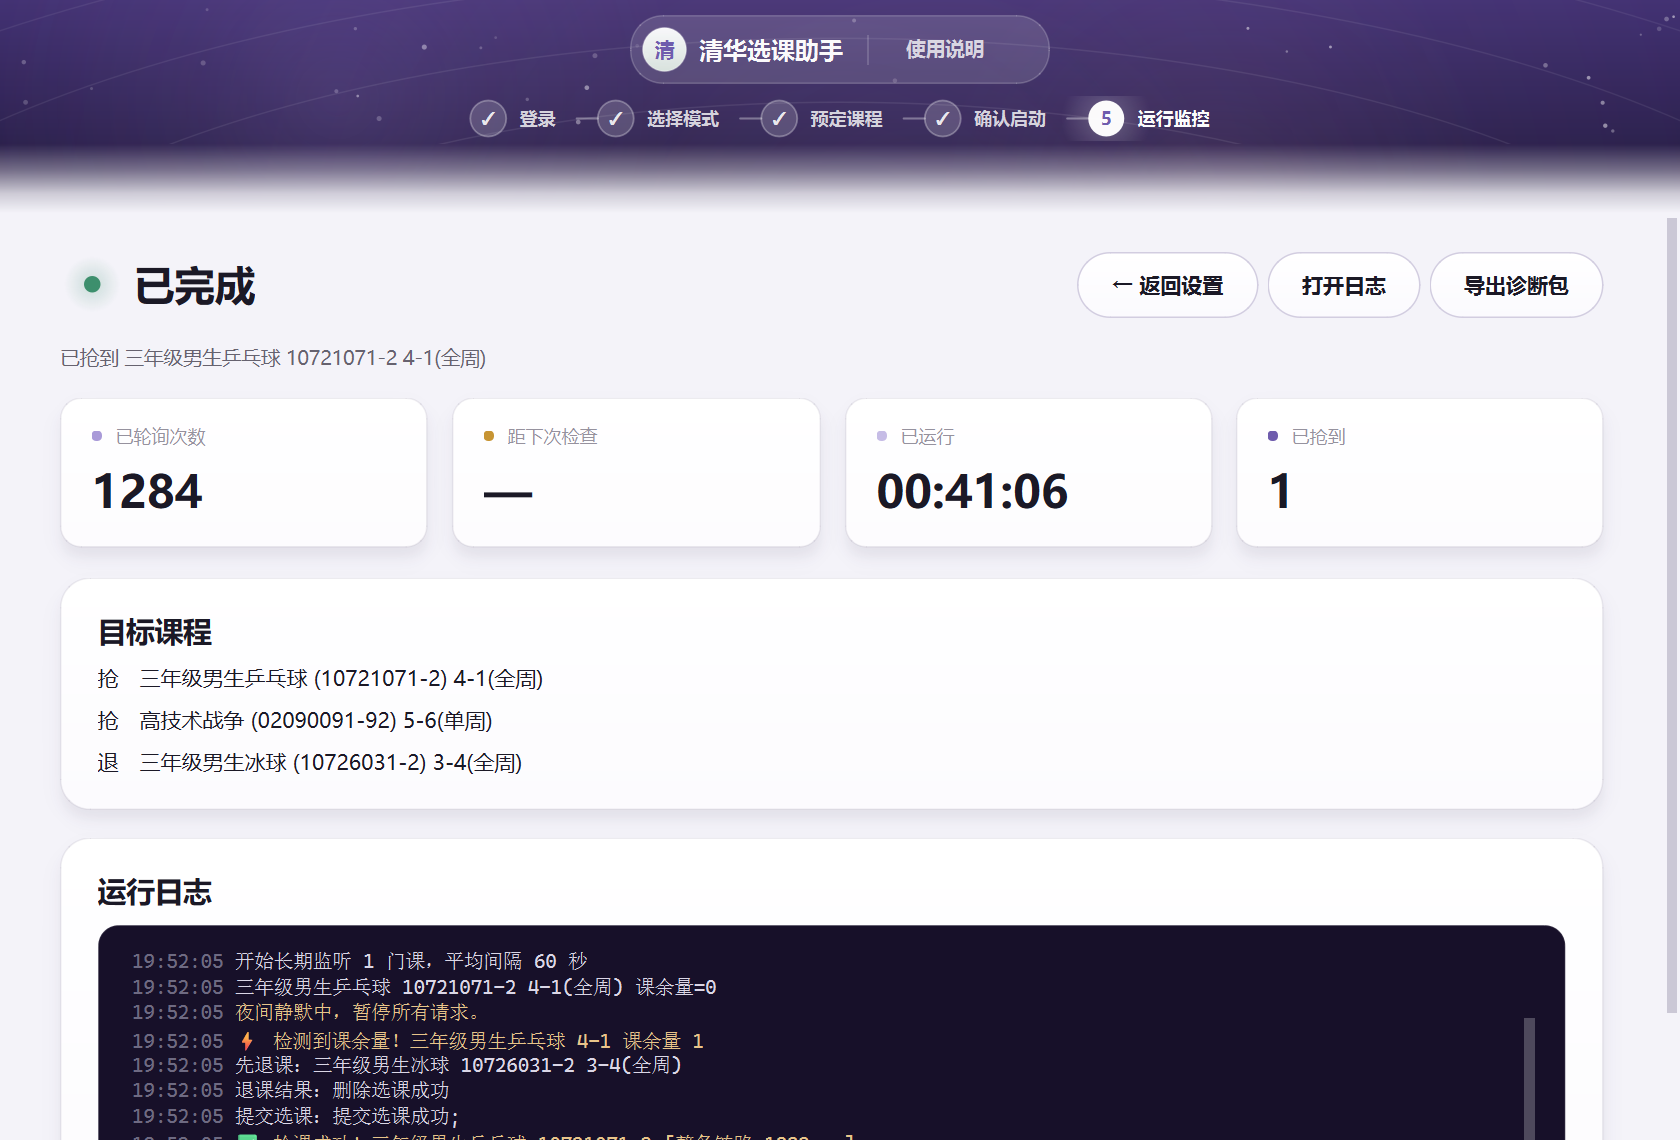
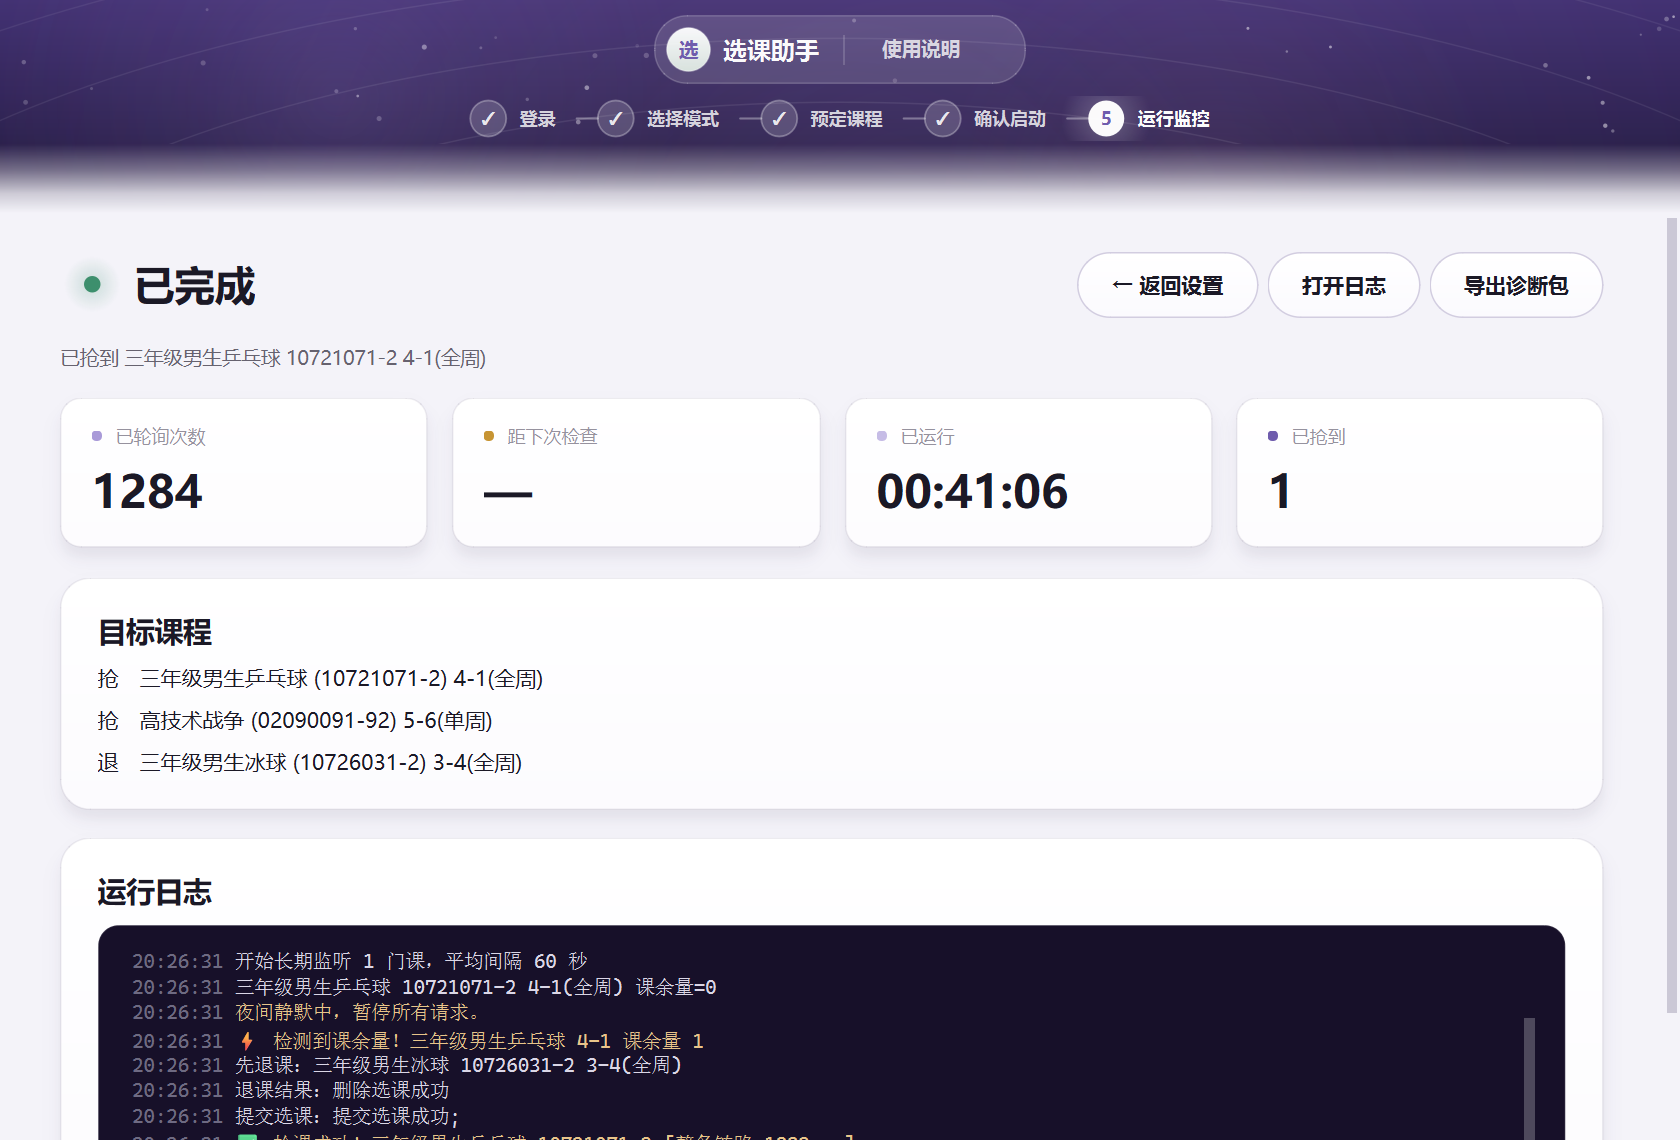
项目更名为 XkHelper
- 中文「学校」、英文 THU / XUANKE 全部清除，产品名改为「选课助手」
- 程序 XkHelper.exe -> XkHelper.exe，安装包同步改名
- 目录 xk_app -> xk_app，spec xk.spec -> xk.spec
- 数据目录 XkHelper -> XkHelper，附带一次性迁移（加密凭据与浏览器
  profile 都在里面，搬不动就继续用旧的，绝不丢数据）
- 安装包升级时清理旧 exe，不留孤儿文件
- 界面与演示稿的圆形标由「清」改为「选」，与应用图标一致
- 版本号 0.3.10 -> 0.4.0

Changed region(s): [[0.3714, 0.0, 0.65, 0.0921], [0.0619, 0.8289, 0.1548, 0.9825]]

diff --git a/xk_app/docs/使用说明.html b/xk_app/docs/使用说明.html
@@ -3,7 +3,7 @@
 <head>
 <meta charset="UTF-8">
 <meta name="viewport" content="width=device-width, initial-scale=1">
-<title>学校选课助手 · 使用说明</title>
+<title>选课助手 · 使用说明</title>
 <style>
 /* ==========================================================================
    使用说明 —— 翻页式演示稿
@@ -603,10 +603,10 @@ pre code{ background: none; color: inherit; padding: 0; }
 <div class="progress"><i id="bar"></i></div>
 
 <div class="brandbar">
-  <span class="mark">清</span>
+  <span class="mark">选</span>
   <span>
-    <span class="name">学校选课助手</span>
-    <span class="ver">v0.3.10</span>
+    <span class="name">选课助手</span>
+    <span class="ver">v0.4.0</span>
   </span>
 </div>
 
@@ -626,8 +626,8 @@ pre code{ background: none; color: inherit; padding: 0; }
   <div class="bg bg-night"></div>
   <div class="inner">
     <div class="sh">
-      <p class="eyebrow stag" style="--i:0">XK HELPER · v0.3.10</p>
-      <h1 class="stag" style="--i:1">学校选课助手</h1>
+      <p class="eyebrow stag" style="--i:0">XK HELPER · v0.4.0</p>
+      <h1 class="stag" style="--i:1">选课助手</h1>
       <p class="lead stag" style="--i:2">自动盯课余量、按预定时间抢课 —— 全程用真实浏览器操作，不做任何脚本化请求</p>
     </div>
     <div class="stag" style="--i:3">
@@ -718,7 +718,7 @@ pre code{ background: none; color: inherit; padding: 0; }
       <div class="rule stag" style="--i:2"></div>
     </div>
 
-    <div class="step stag" style="--i:3"><div class="num">1</div><div>双击 <code>XkHelper-Setup-0.3.10.exe</code>，一路下一步。</div></div>
+    <div class="step stag" style="--i:3"><div class="num">1</div><div>双击 <code>XkHelper-Setup-0.4.0.exe</code>，一路下一步。</div></div>
     <div class="step stag" style="--i:4"><div class="num">2</div><div>装完会自动创建开始菜单和桌面快捷方式。</div></div>
 
     <p class="stag" style="--i:5"><small>安装目录约 650 MB —— 里面有一整个 Chromium，所以比较大。默认装在 <code>%LOCALAPPDATA%\Programs\XkHelper</code>，不需要管理员权限。</small></p>
@@ -742,7 +742,7 @@ pre code{ background: none; color: inherit; padding: 0; }
       <div class="rule stag" style="--i:2"></div>
     </div>
 
-    <p class="stag" style="--i:3">使用学校统一身份认证的学号和密码，即 info.tsinghua.edu.cn 所用的那一套。</p>
+    <p class="stag" style="--i:3">使用学校统一身份认证的学号和密码。</p>
 
     <div class="card tip stag" style="--i:4">
       <b>建议勾选「信任此浏览器」</b> —— 登录会话过期后可免密码自动重登，无需手动干预。
@@ -1029,7 +1029,7 @@ diagnostics\         导出的诊断包</pre>
     </div>
 
     <div class="step stag" style="--i:3"><div class="num">1</div><div><b>先看日志。</b>监控页右下角有「打开日志」，或直接去 <code>%LOCALAPPDATA%\XkHelper\logs\</code>。每一条都带时间戳。</div></div>
-    <div class="step stag" style="--i:4"><div class="num">2</div><div><b>跑一次自检。</b>在安装目录按住 Shift 右键 → 「在此处打开 PowerShell」，然后执行：<pre>.\XkHelper.exe --selftest</pre>它会检查浏览器能不能启动、能不能连上学校网络。结论直接写在屏幕上，同时也进日志。</div></div>
+    <div class="step stag" style="--i:4"><div class="num">2</div><div><b>跑一次自检。</b>在安装目录按住 Shift 右键 → 「在此处打开 PowerShell」，然后执行：<pre>.\XkHelper.exe --selftest</pre>它会检查浏览器能不能启动、能不能连上校园网。结论直接写在屏幕上，同时也进日志。</div></div>
     <div class="step stag" style="--i:5"><div class="num">3</div><div><b>导出诊断包。</b>监控页右上角「导出诊断包」，会打包日志 + 环境信息（已脱敏）。</div></div>
   </div>
 </section>
@@ -1144,13 +1144,13 @@ diagnostics\         导出的诊断包</pre>
   <div class="inner">
     <div class="sh">
       <p class="eyebrow stag" style="--i:0">XK HELPER</p>
-      <h1 class="stag" style="--i:1">学校选课助手 v0.3.10</h1>
+      <h1 class="stag" style="--i:1">选课助手 v0.4.0</h1>
       <p class="lead stag" style="--i:2">本说明随安装包一起分发</p>
     </div>
     <div class="card stag" style="--i:3">
       <b>免责声明</b><br>
-      本项目是<b>个人学习项目</b>，与学校及任何院系<b>没有任何关系</b>，未获授权。
-      名称中的「学校」仅用于说明适用场景。<br>
+      本项目是<b>个人学习项目</b>，与任何高校及其院系<b>没有任何关系</b>，未获授权。
+      本项目不代表任何机构。<br>
       使用自动化工具选课<b>可能违反学校规定</b>，可能导致选课结果被取消、账号受限，
       甚至纪律处分。<b>全部风险由使用者自行承担</b>，作者不承担任何责任。<br>
       请<b>确认所在学校允许</b>后再使用，并合理设置监听间隔，不要给服务器造成压力。<br>

diff --git a/xk_app/app/config.py b/xk_app/app/config.py
@@ -31,8 +31,29 @@ from typing import Any
 
 
 APP_DIR_NAME = "XkHelper"
-APP_DISPLAY_NAME = "学校选课助手"
-APP_VERSION = "0.3.10"
+OLD_APP_DIR_NAME = "XkHelper"      # 改名前的目录，只用于一次性迁移
+APP_DISPLAY_NAME = "选课助手"
+APP_VERSION = "0.4.0"
+
+
+def migrate_legacy_root(base: Path) -> None:
+    """把旧名字的数据目录搬到新名字下。
+
+    目录里有**加密凭据**和**浏览器 profile** ——「信任此设备」的状态就存在
+    profile 里。改名后如果直接用新目录，等于换了一台电脑：要重新登录、
+    重新登记信任设备。所以第一次运行时先搬一次。
+
+    搬不动就继续用旧的（返回 False），**绝不因为改名丢用户数据**。
+    """
+    new = base / APP_DIR_NAME
+    old = base / OLD_APP_DIR_NAME
+    if new.exists() or not old.exists():
+        return True
+    try:
+        old.rename(new)
+        return True
+    except Exception:
+        return False
 
 
 def app_root() -> Path:
@@ -43,7 +64,10 @@ def app_root() -> Path:
     base = os.environ.get("LOCALAPPDATA") or os.environ.get("APPDATA")
     if not base:
         base = str(Path.home() / ".local" / "share")
-    return Path(base) / APP_DIR_NAME
+    base = Path(base)
+    if not migrate_legacy_root(base):
+        return base / OLD_APP_DIR_NAME      # 迁移失败就接着用旧的
+    return base / APP_DIR_NAME
 
 
 @dataclass

diff --git a/xk_app/app/gui/pages.py b/xk_app/app/gui/pages.py
@@ -96,8 +96,8 @@ class LoginPage(QWidget):
 
         top = QHBoxLayout()
         top.setSpacing(12)
-        top.addWidget(LogoMark(34, "清", dark=True))
-        bm = QLabel("学校选课助手")
+        top.addWidget(LogoMark(34, "选", dark=True))
+        bm = QLabel("选课助手")
         bm.setStyleSheet("font-size:15px;font-weight:700;"
                          "color:rgba(255,255,255,0.95);")
         top.addWidget(bm)
@@ -109,7 +109,7 @@ class LoginPage(QWidget):
         bl.addWidget(eyebrow(f"XK HELPER · v{APP_VERSION}", dark=True))
         bl.addSpacing(18)
 
-        btitle = QLabel("学校选课助手")
+        btitle = QLabel("选课助手")
         btitle.setObjectName("BrandTitle")
         btitle.setWordWrap(True)
         bl.addWidget(btitle)

diff --git a/release/publish.py b/release/publish.py
@@ -23,13 +23,13 @@ for _s in ("stdout", "stderr"):
         pass
 
 REPO = "Tambacy/xk"
-TAG = "v0.3.10"
-NAME = "v0.3.10 免责声明与许可协议"
+TAG = "v0.4.0"
+NAME = "v0.4.0 去掉校名标识"
 ROOT = Path(__file__).resolve().parent.parent      # 从脚本位置推导，别写死本机路径
 NOTES = ROOT / "release" / "RELEASE_NOTES.md"
 ASSETS = [
-    ROOT / "release" / "XkHelper-v0.3.10-source.zip",
-    ROOT / "xk_app" / "installer" / "XkHelper-Setup-0.3.10.exe",
+    ROOT / "release" / "XkHelper-v0.4.0-source.zip",
+    ROOT / "xk_app" / "installer" / "XkHelper-Setup-0.4.0.exe",
 ]
 
 

diff --git a/xk_app/main.py b/xk_app/main.py
@@ -1,6 +1,6 @@
 # -*- coding: utf-8 -*-
 """
-学校选课助手 —— 程序入口
+选课助手 —— 程序入口
 =========================
 
 启动顺序：先建好日志（这样崩溃也能查到），再建应用目录，最后开界面。
@@ -52,7 +52,7 @@ def selftest() -> int:
     log = get_logger("selftest")
 
     print("=" * 62)
-    print("学校选课助手 自检")
+    print("选课助手 自检")
     print("=" * 62)
     ok = True
     for k, v in describe_environment().items():

diff --git a/xk_app/app/logging_setup.py b/xk_app/app/logging_setup.py
@@ -208,7 +208,7 @@ def export_diagnostics(zip_path: str | Path, log_dir: str | Path,
             env.append(extra_text)
         z.writestr("environment.txt", redactor.scrub("\n".join(env)))
         z.writestr("README.txt",
-                   "这是学校选课助手导出的诊断包。\n"
+                   "这是选课助手导出的诊断包。\n"
                    "内含运行日志与环境信息，已自动脱敏，不含账号密码。\n")
     return str(zip_path)
 

diff --git a/xk_app/app/courses.py b/xk_app/app/courses.py
@@ -26,7 +26,7 @@ from typing import Iterable, Sequence
 
 from .browser import CapacityRow, COURSE_KINDS, KIND_BY_NAME, ScholarBrowser, PageError
 
-# 每周节次：学校一节课的位置用 "星期-节次" 表示，如 4-1 = 星期四第 1 大节
+# 每周节次：一节课的位置用 "星期-节次" 表示，如 4-1 = 星期四第 1 大节
 SLOT_RE = re.compile(r"(\d)\s*-\s*(\d)")
 WEEK_TAG_RE = re.compile(r"[（(]([^）)]*)[）)]")
 

diff --git a/xk_app/_creds.py b/xk_app/_creds.py
@@ -72,6 +72,8 @@ def _candidate_roots() -> list[Path]:
     base = os.environ.get("LOCALAPPDATA") or os.environ.get("APPDATA")
     if base:
         out.append(Path(base) / APP_DIR_NAME)
+        # 改名前的目录也找一下，老用户升级上来时凭据还在那儿
+        out.append(Path(base) / "XkHelper")
     out.append(Path.home() / ".local" / "share" / APP_DIR_NAME)
     # 去重且保持顺序
     seen, uniq = set(), []

diff --git a/xk_app/app/gui/backdrop.py b/xk_app/app/gui/backdrop.py
@@ -8,7 +8,7 @@
   · 窗口尺寸任意可拖，矢量绘制不会拉伸变形、不会糊
   · 体积为零，启动不用解码
 
-如果确实想换成真实照片（比如学校的风景图），把图片放到
+如果确实想换成真实照片（比如校园风景图），把图片放到
 `xk_app/assets/backdrop.jpg`（或 .png），`paint_sky()` 会**优先用它**，
 按 cover 方式居中裁切。代码不用改。
 

diff --git a/xk_app/app/gui/widgets.py b/xk_app/app/gui/widgets.py
@@ -246,7 +246,7 @@ class BrandPanel(SkySurface):
 class LogoMark(QWidget):
     """圆形品牌标：浅色圆 + 深绿字。深色底上够跳，浅色底上也站得住。"""
 
-    def __init__(self, size: int = 32, text: str = "清", dark: bool = True,
+    def __init__(self, size: int = 32, text: str = "选", dark: bool = True,
                  parent=None):
         super().__init__(parent)
         self._size = size

diff --git a/xk_app/app/gui/main_window.py b/xk_app/app/gui/main_window.py
@@ -58,7 +58,7 @@ class MainWindow(QMainWindow):
         self.band = HeroBand()
         nr = self.band.nav_row
 
-        nr.addWidget(LogoMark(30, "清", dark=True))
+        nr.addWidget(LogoMark(30, "选", dark=True))
 
         logo = QLabel(APP_DISPLAY_NAME)
         logo.setObjectName("Wordmark")

diff --git a/xk_app/app/__init__.py b/xk_app/app/__init__.py
@@ -1,5 +1,5 @@
 # -*- coding: utf-8 -*-
-"""学校选课助手 —— 应用包。"""
+"""选课助手 —— 应用包。"""
 
-__version__ = "0.3.10"
-APP_NAME = "学校选课助手"
+__version__ = "0.4.0"
+APP_NAME = "选课助手"
